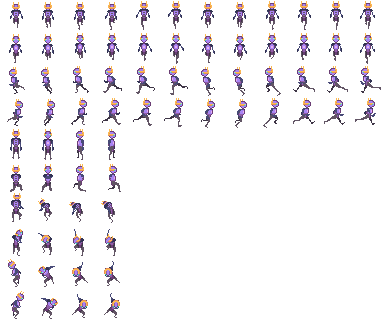
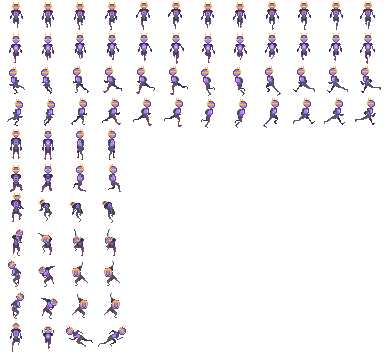
Dash sprite & Better reflection

diff --git a/Test_Loopguy/Player.cs b/Test_Loopguy/Player.cs
@@ -453,6 +453,8 @@ namespace Test_Loopguy
 
         public void Dash(SpriteBatch spriteBatch)
         {
+            sprite.Frame((int)primaryOrientation - 1, 10);
+
             if (direction == Vector2.Zero)
             {
                 if (primaryOrientation == Orientation.Up)
@@ -481,7 +483,7 @@ namespace Test_Loopguy
                 }
                 else
                 {
-                    //sprite.DrawElsewhere(spriteBatch, new Vector2(dashPos.X - sprite.size.X / 2, dashPos.Y - sprite.size.Y / 2 - 12));
+                    sprite.DrawElsewhere(spriteBatch, new Vector2(dashPos.X - sprite.size.X / 2, dashPos.Y - sprite.size.Y / 2 - 12), 40);
                     viablePos = dashPos;
                 }
             }

diff --git a/Test_Loopguy/AnimatedSprite.cs b/Test_Loopguy/AnimatedSprite.cs
@@ -96,11 +96,11 @@ namespace Test_Loopguy
 
             spriteBatch.Draw(sheet, position, frame, Color.White, -angle, origin, 1, SpriteEffects.None, 0);
         }
-        public void DrawElsewhere(SpriteBatch spriteBatch, Vector2 otherPos)
+        public void DrawElsewhere(SpriteBatch spriteBatch, Vector2 otherPos, int alpha)
         {
             frame = new Rectangle(currentFrame.X * size.X, currentFrame.Y * size.Y, size.X, size.Y);
 
-            spriteBatch.Draw(sheet, otherPos, frame, Color.White);
+            spriteBatch.Draw(sheet, otherPos, frame, new Color(alpha, alpha, alpha, alpha));
         }
     }
 }

diff --git a/Test_Loopguy/Level.cs b/Test_Loopguy/Level.cs
@@ -65,7 +65,7 @@ namespace Test_Loopguy
                 if (EntityManager.player.MeleeHit(s) && EntityManager.player.attacking)
                 {
                     Projectile reflS = s.Clone();
-                    reflS.Bounce();
+                    reflS.Bounce((float)Helper.GetAngle(player.centerPosition, reflS.centerPosition, 0));
                     playerProjectiles.Add(reflS);
 
                     projectilesToRemove.Add(s);

diff --git a/Test_Loopguy/Projectile.cs b/Test_Loopguy/Projectile.cs
@@ -68,8 +68,9 @@ namespace Test_Loopguy
             sprite.DrawRotation(spriteBatch, rotation);
         }
 
-        public void Bounce()
+        public void Bounce(float angle)
         {
+            rotation = angle;
             float randDeviation = (float)rand.NextDouble() - 0.5f;
             rotation += (float)Math.PI + randDeviation;
 
